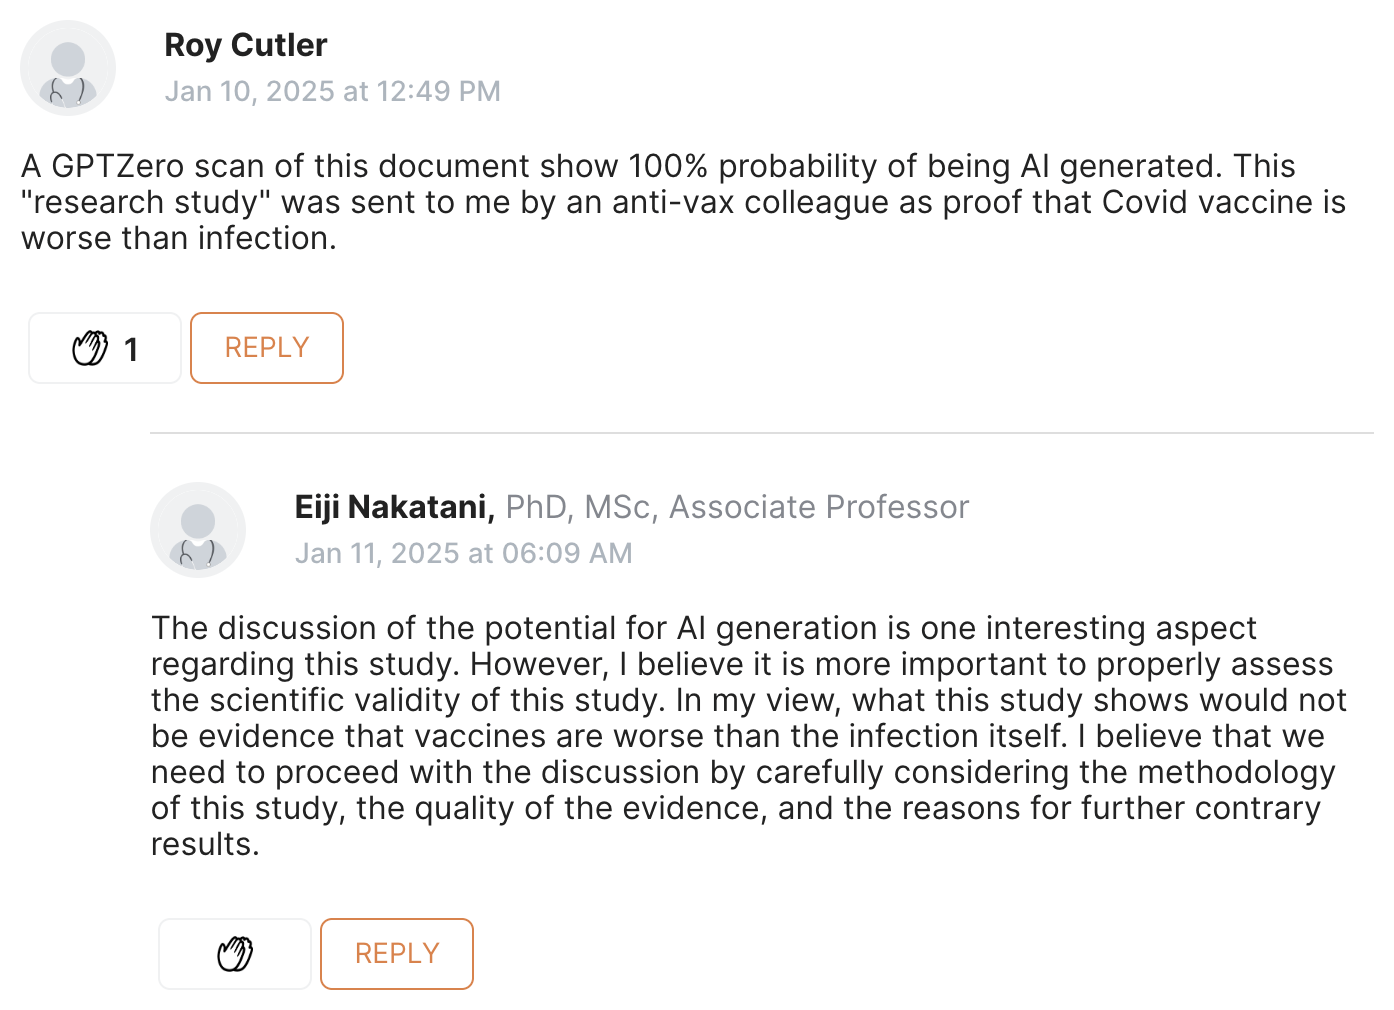
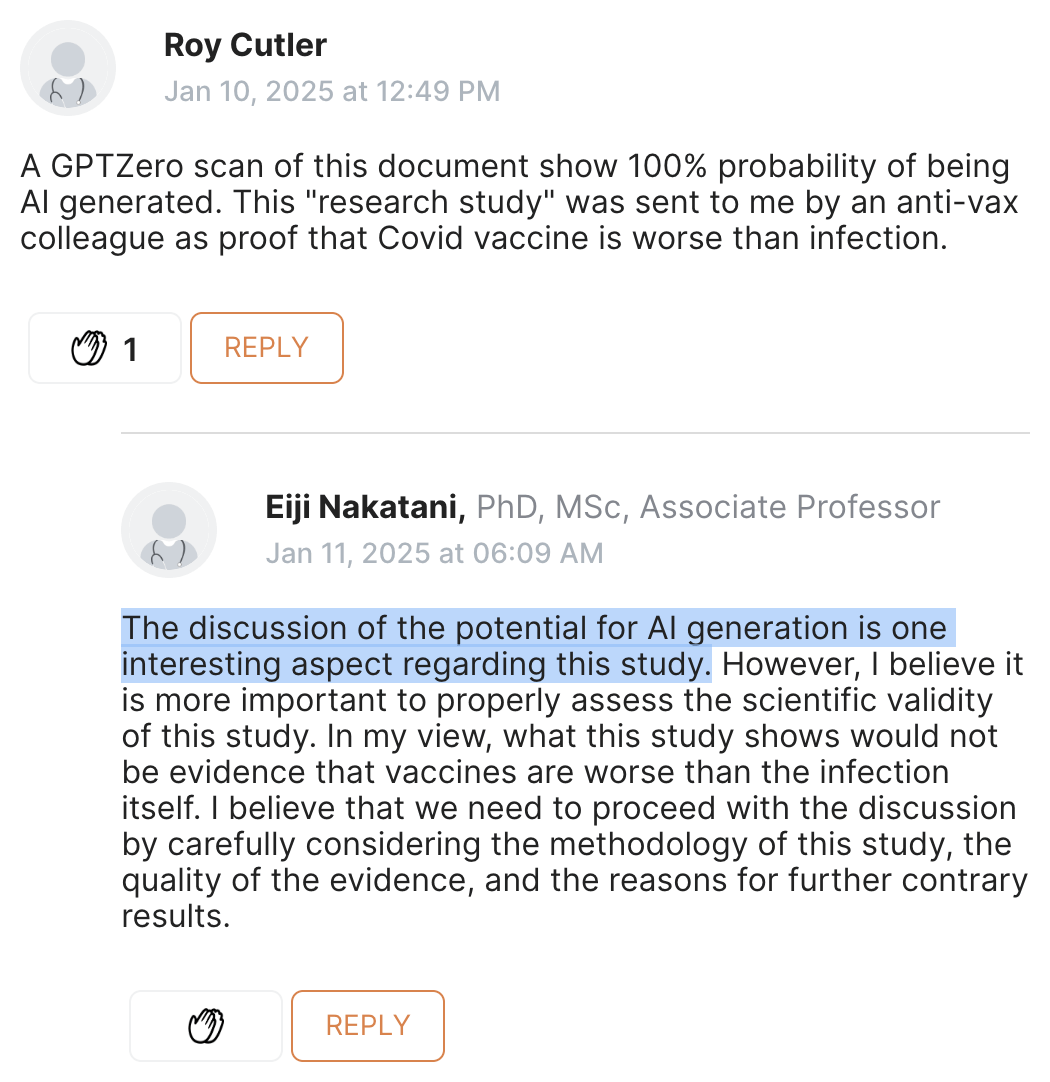
a

diff --git a/rootclaim2.html b/rootclaim2.html
@@ -190,7 +190,7 @@ a[,.(state,tests,pop,vaxpct=vax/pop*100,testsperpop=tests/pop)][order(-testsperp
 <p>The percentage of people who reported that they had contracted COVID was about 42% among unvaccinated people (<code>211/(211+293)</code>) and about 54% among vaccinated people (<code>222/(222+187)</code>). However the study didn't differentiate whether people contracted COVID before or after they were vaccinated, and some vaccinated people might have contracted COVID before they were vaccinated.</p>
 <p>The survey is supposed to have been administered in December 2023, so it's unusual that only 45% of the respondents reported being vaccinated (409 out of 913).</p>
 <p>The odds ratios in the study were not adjusted for testing behavior, and part of the reason why unvaccinated people had lower self-reported incidence of COVID might be if unvaccinated people were less likely to get tested. The authors wrote they collected the following characteristics, which did not include the number of tests performed or whether people had ever been tested or not: <span class="quote">&quot;The questionnaire collected information on demographic characteristics (age and gender), COVID-19 infection status, vaccination status (including the number of vaccine doses received), health status before January 2020 (presence of any chronic health conditions), and various preventive behaviors. Preventive behaviors assessed included regular gargling, mask-wearing, bathing frequency, avoiding crowded places, room ventilation, eating habits, sleep patterns, exercise habits, and maintaining humidity in living spaces.&quot;</span></p>
-<p>A comment to the paper at Cureus addressed many of the same flaws I found in the study: [<a href="https://www.cureus.com/articles/313843-behavioral-and-health-outcomes-of-mrna-covid-19-vaccination-a-case-control-study-in-japanese-small-and-medium-sized-enterprises">https://www.cureus.com/articles/313843-behavioral-and-health-outcomes-of-mrna-covid-19-vaccination-a-case-control-study-in-japanese-small-and-medium-sized-enterprises</a>]</p>
+<p>The Japanese paper was published at Cureus which allows readers to post comments about the paper. Someone called Sadao Suzuki posted this comment: [<a href="https://www.cureus.com/articles/313843-behavioral-and-health-outcomes-of-mrna-covid-19-vaccination-a-case-control-study-in-japanese-small-and-medium-sized-enterprises">https://www.cureus.com/articles/313843-behavioral-and-health-outcomes-of-mrna-covid-19-vaccination-a-case-control-study-in-japanese-small-and-medium-sized-enterprises</a>]</p>
 <blockquote>
 <p>First, although the title of the study contains <span class="quote">&quot;Case-Control Study,&quot;</span> this is not a case-control study. <span class="quote">'The case-control study starts with a group of cases, which are the individuals who have the outcome of interest. The researcher then tries to construct a second group of individuals called the controls, who are similar to the case individuals but do not have the outcome of interest'</span> [1]. In this study, however, the researcher first collects whole study subjects and then divides them into two groups: one with outcome and one without outcome. In this respect, the retrospective cohort approach, which divides the entire subject population by exposure, and examines outcome status by exposure group, is more natural and straightforward. Because the authors chose the framework of a case-control study, Table 1 is divided by outcome information, and an important information of the distribution of potential confounders by exposure status is not known.</p>
 <p>Second, the primary outcome of this study was the presence or absence of self-reported COVID-19 infection. However, the time frame of the outcome was not questioned and a longitudinal analysis could not be performed. If a subject was infected with COVID-19 before the first vaccination and then received six additional vaccinations and prevented the infection, then vaccination cannot be the cause of COVID-19 infection. In the study, however, the association would be observed between the vaccination and the infection. Without knowing the time frame of the outcome, a causal relationship cannot be discussed.</p>
@@ -200,20 +200,25 @@ a[,.(state,tests,pop,vaxpct=vax/pop*100,testsperpop=tests/pop)][order(-testsperp
 <p>And last but not least, the validity of the odds ratios is not fully considered. For the odds ratio to be valid, the accuracy of COVID-19 diagnosis must be constant regardless of vaccination status. However, it is conceivable that vaccination is associated with diagnostic diligence for the disease in question, in which case there would be a difference in diagnostic accuracy, resulting in information bias. This bias increases the odds ratio without causality.</p>
 <p>References<br> 1) <a href="https://pubmed.ncbi.nlm.nih.gov/28846237/">https://pubmed.ncbi.nlm.nih.gov/28846237/</a><br> 2) <a href="https://www.mhlw.go.jp/content/nenreikaikyubetsu-vaccination_data.pdf">https://www.mhlw.go.jp/content/nenreikaikyubetsu-vaccination_data.pdf</a></p>
 </blockquote>
-<p>Eiji Nakatani who was the first author of the paper posted a response to the comment which essentially acknowledged all the errors. He wrote: <span class="quote">&quot;Because our study could not establish whether vaccination preceded infection, causal inference is severely limited. The observed association - more frequent infection reports among vaccinated participants - should not be taken as causal proof of vaccine ineffectiveness or harmful effects. Rather, it points to the need for further exploration, including detailed temporal data and longitudinal designs.&quot;</span> He also wrote: <span class="quote">&quot;The proportion of unvaccinated individuals in our sample was higher than national averages, indicating possible selection bias and limited generalizability. In retrospect, describing our sample as a <span class="quote">'reasonable approximation'</span> of the broader workforce was inaccurate. We will acknowledge these biases explicitly and refrain from overstating the representativeness of our sample.&quot;</span> And he wrote: <span class="quote">&quot;Relying on self-reported infections introduces the possibility of information bias. Vaccinated individuals may be more proactive in seeking testing or reporting infections, potentially inflating observed odds ratios. Future research will incorporate objective clinical data (PCR test results, medical records) and refined analytical methods to adjust for differences in diagnostic vigilance and reporting behavior.&quot;</span> (But would the authors even had access to clinical data like PCR testing results or medical records?)</p>
+<p>A reply to the comment which essentially acknowledged all the errors was posted by Eiji Nakatani who was the first author of the paper. He wrote: <span class="quote">&quot;Because our study could not establish whether vaccination preceded infection, causal inference is severely limited. The observed association - more frequent infection reports among vaccinated participants - should not be taken as causal proof of vaccine ineffectiveness or harmful effects. Rather, it points to the need for further exploration, including detailed temporal data and longitudinal designs.&quot;</span> He also wrote: <span class="quote">&quot;The proportion of unvaccinated individuals in our sample was higher than national averages, indicating possible selection bias and limited generalizability. In retrospect, describing our sample as a <span class="quote">'reasonable approximation'</span> of the broader workforce was inaccurate. We will acknowledge these biases explicitly and refrain from overstating the representativeness of our sample.&quot;</span> And he wrote: <span class="quote">&quot;Relying on self-reported infections introduces the possibility of information bias. Vaccinated individuals may be more proactive in seeking testing or reporting infections, potentially inflating observed odds ratios.&quot;</span></p>
 <p>The response by Eiji Nakatani looks like it was AI-generated:</p>
 <div class="width6">
 <img src="i/rootclaim-japan-1.png">
 </div>
-<p>One comment said that <span class="quote">&quot;a GPTZero scan of this document show 100% probability of being AI generated&quot;</span>, but comically the first author posted a response that looked AI-generated and said that <span class="quote">&quot;the discussion of the potential for AI generation is one interesting aspect regarding this study&quot;</span>:</p>
-<div class="width6">
+<p>One comment said that <span class="quote">&quot;a GPTZero scan of this document show 100% probability of being AI generated&quot;</span>, but the first author Eiji Nakatani replied that <span class="quote">&quot;the discussion of the potential for AI generation is one interesting aspect regarding this study&quot;</span>:</p>
+<div class="width5">
 <img src="i/rootclaim-japan-2.png">
 </div>
-<p>The Japanese survey had four authors but one of them was Masanori Fukushima, who is one of the best-known anti-vaccine activists in Japan. A video from a press conference where he discussed the paper was widely posted on social media, and a version of the video with English subtitles was posted by Aussie17: [<a href="https://x.com/_aussie17/status/1880459710115246385">https://x.com/_aussie17/status/1880459710115246385</a>]</p>
+<p>Reference 1 of the Japanese paper says: <span class="quote">&quot;Welcome to the Sprinklr DEV portal. (2024). Accessed: October 16, 2024: <a href="http://dev.sprinklr.com/">http://dev.sprinklr.com/</a>.&quot;</span> But reference 1 doesn't seem to have anything to do with the sentence it was placed after: <span class="quote">&quot;Vaccination campaigns have played a pivotal role in controlling the spread of severe acute respiratory syndrome coronavirus 2 (SARS-CoV-2) and reducing the severity of COVID-19 [1,2].&quot;</span> Apparently Sprinklr is an AI customer support service which also supports generating various types of documents with AI: [<a href="https://www.sprinklr.com/help/articles/sprinklr-ai-powered-article-creation/create-an-article-with-sprinklr-ai/65a94942ab59de79d2a06906/">https://www.sprinklr.com/help/articles/sprinklr-ai-powered-article-creation/create-an-article-with-sprinklr-ai/65a94942ab59de79d2a06906/</a>]</p>
+<div class="width6">
+<img src="i/rootclaim-japan-5.png">
+</div>
+<p>Sprinklr also supports using AI to automatically post replies on social media, so I wonder if the replies by Eiji Nakatani were also automated by Sprinklr or another similar service? It wouldn't have made sense for a real person to write <span class="quote">&quot;the discussion of the potential for AI generation is one interesting aspect regarding this study&quot;</span>. But on the other hand it seems like a fairly niche task to automate posting replies to a scientific paper, and setting up automated replies might take more time than simply posting replies manually. So perhaps a more likely scenario would be that Eiji Nakatani generated the reply with AI but he sent it manually, and he was so poor at English that he didn't understand what the reply said or he didn't bother editing it manually.</p>
+<p>One of the four authors of the Japanese paper was the anti-vaccine activist Masanori Fukushima. A video from a press conference where he discussed the paper was widely shared on social media, and a version of the video with English subtitles was posted by Aussie17: [<a href="https://x.com/_aussie17/status/1880459710115246385">https://x.com/_aussie17/status/1880459710115246385</a>]</p>
 <div class="width5">
 <img src="i/rootclaim-japan-3.jpg">
 </div>
-<p>Aussie17 frequently posts subtitled videos produced by the astroturfed anti-vaccine movement in Japan and other Asian countries. His videos are often reposted by bots that promote Miles Guo and other bots that promote content from the astroturfed alternative media. When I scraped the reposts of about 80 accounts I suspected to be bots and I counted how many times different COVID-related accounts were reposted by the bots relative to their number of followers, Aussie17 ranked 8th highest. [<a href=bot2.html#Reposts_by_bots_compared_to_number_of_followers>bot2.html#Reposts_by_bots_compared_to_number_of_followers</a>] The ten highest-ranking accounts also included toobaffled and SenseReceptor which both promoted the Japanese survey, and they included sophiadahl1 which posted another video Masanori Fukushima with subtitles by Aussie17:</p>
+<p>Aussie17 frequently posts subtitled videos produced by the astroturfed anti-vaccine movement in Japan and other Asian countries. His videos are often reposted by bots that promote Miles Guo and other bots that promote content from the fake alternative media. In 2024 I scraped the reposts of about 80 accounts I suspected to be bots that promoted content from the fake alternative media, and I counted how many times they reposted different COVID-related accounts relative to the number of followers of each account, but Aussie17 ranked 8th highest. [<a href=bot2.html#Reposts_by_bots_compared_to_number_of_followers>bot2.html#Reposts_by_bots_compared_to_number_of_followers</a>] The ten highest-ranking accounts also included toobaffled and SenseReceptor which both promoted the Japanese paper, and they included sophiadahl1 who posted another video by Aussie17 of a press conference by Japanese anti-vaxxers:</p>
 <div class="width10">
 <img src="i/rootclaim-japan-4.jpg">
 </div>
